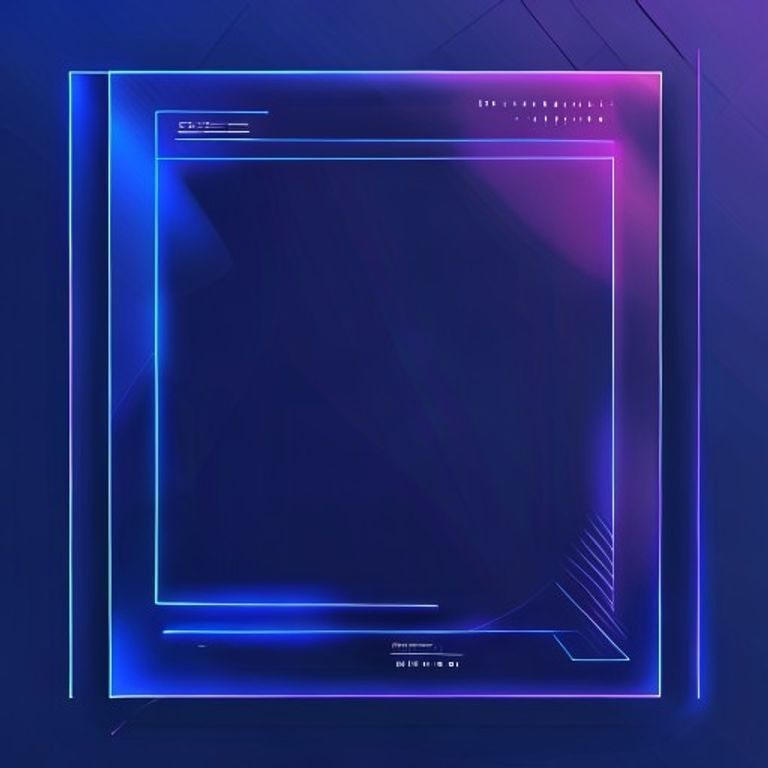
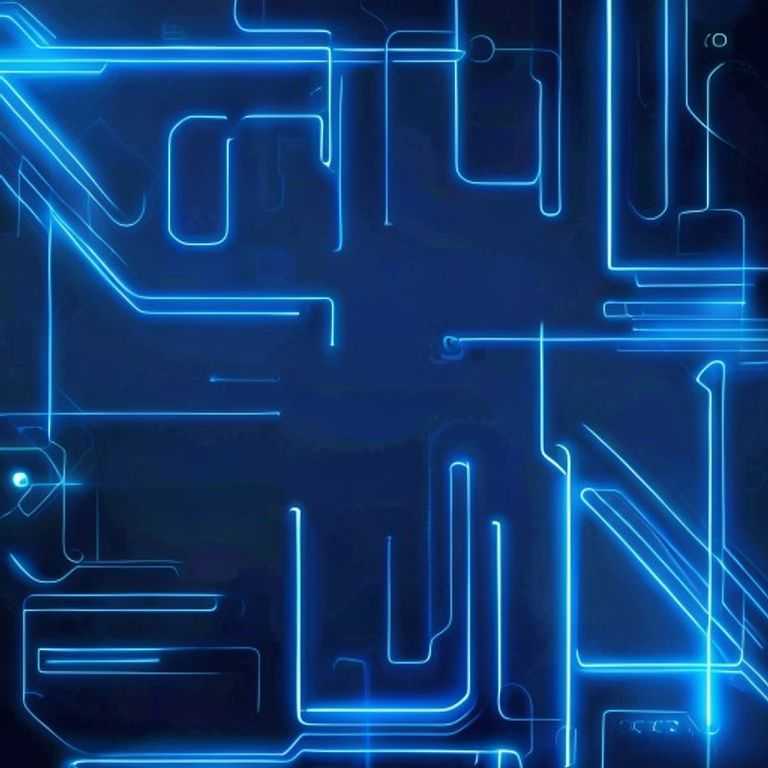
fix(ai): resolve image URL mapping mismatch and Pollinations query parameter fix

diff --git a/socialpilot-ai/src/features/ai/components/AIImageStudio.tsx b/socialpilot-ai/src/features/ai/components/AIImageStudio.tsx
@@ -60,8 +60,9 @@ export function AIImageStudio() {
       });
 
       const data = await res.json();
-      if (data.imageUrl) {
-        setGeneratedUrl(data.imageUrl);
+      const imageUrl = data.imageUrl || data.image_url;
+      if (imageUrl) {
+        setGeneratedUrl(imageUrl);
         setRenderedPrompt(data.rendered_prompt || prompt);
 
         const newRecord: AIImageRecordItem = {
@@ -73,7 +74,7 @@ export function AIImageStudio() {
           aspect_ratio: data.aspect_ratio || selectedRatio,
           width: data.width || 1080,
           height: data.height || 1080,
-          image_url: data.imageUrl,
+          image_url: imageUrl,
           status: "success",
           created_at: new Date().toISOString(),
         };

diff --git a/socialpilot-ai/src/app/api/ai/generate-image/route.ts b/socialpilot-ai/src/app/api/ai/generate-image/route.ts
@@ -26,7 +26,12 @@ export async function POST(req: Request) {
 
     if (backendRes.ok) {
       const data = await backendRes.json();
-      return NextResponse.json(data);
+      const imageUrl = data.image_url || data.imageUrl;
+      return NextResponse.json({
+        ...data,
+        imageUrl,
+        image_url: imageUrl,
+      });
     }
 
     // Fallback URL formatting if backend service is offline
@@ -54,6 +59,7 @@ export async function POST(req: Request) {
     return NextResponse.json({
       success: true,
       imageUrl,
+      image_url: imageUrl,
       prompt,
       width: reqWidth,
       height: reqHeight,

diff --git a/backend/app/ai/providers/pollinations_provider.py b/backend/app/ai/providers/pollinations_provider.py
@@ -27,7 +27,8 @@ class PollinationsProvider(BaseAIProvider):
         return "flux"
 
     def validate_configuration(self) -> bool:
-        return bool(self._api_key and len(self._api_key.strip()) > 3)
+        # Zero API key required for Pollinations image generation
+        return True
 
     def list_models(self) -> List[ModelInfo]:
         return [
@@ -65,8 +66,8 @@ class PollinationsProvider(BaseAIProvider):
         options: Optional[Dict[str, Any]] = None,
     ) -> ImageGenerationResponse:
         options = options or {}
-        width = options.get("width", 1024)
-        height = options.get("height", 1024)
+        width = options.get("width", 1080)
+        height = options.get("height", 1080)
         seed = options.get("seed", random.randint(100000, 999999))
         model = options.get("model", self.default_model)
         style = options.get("style", "photorealistic")
@@ -74,10 +75,8 @@ class PollinationsProvider(BaseAIProvider):
         enhanced_prompt = f"{prompt}, {style}, 8k resolution, professional lighting, clean aesthetic"
         encoded_prompt = urllib.parse.quote(enhanced_prompt)
 
+        # Standard clean Pollinations URL (no extra key query parameter required)
         query_params = f"width={width}&height={height}&seed={seed}&model={model}&nologo=true"
-        if self._api_key:
-            query_params += f"&key={self._api_key}"
-
         image_url = f"https://image.pollinations.ai/prompt/{encoded_prompt}?{query_params}"
 
         return ImageGenerationResponse(

diff --git a/backend/app/ai/services/ai_image_service.py b/backend/app/ai/services/ai_image_service.py
@@ -79,7 +79,8 @@ class AIImageService:
         )
 
         latency_ms = round((time.time() - start_time) * 1000, 2)
-        image_url = img_res.image_url or f"https://image.pollinations.ai/prompt/{urllib.parse.quote(rendered_prompt)}?width={width}&height={height}&nologo=true"
+        seed = random.randint(100000, 999999)
+        image_url = img_res.image_url or f"https://image.pollinations.ai/prompt/{urllib.parse.quote(rendered_prompt)}?width={width}&height={height}&seed={seed}&nologo=true"
 
         # 5. Record to AIImageRecord
         record = AIImageRecord(
